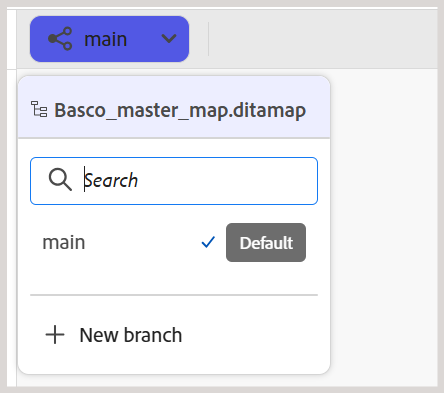
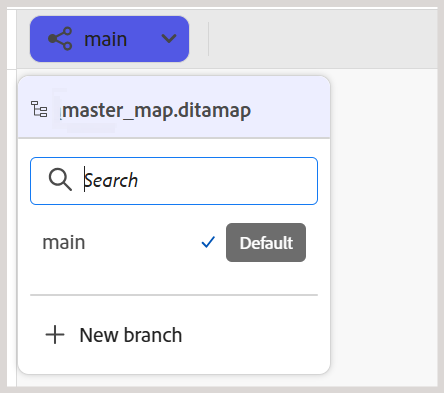
feedback for branching addressed

Changed region(s): [[0.1171, 0.2443, 0.7027, 0.3053]]

diff --git a/help/product-guide/user-guide/branching-overview.md b/help/product-guide/user-guide/branching-overview.md
@@ -49,7 +49,7 @@ Both teams can work independently on their respective map branches without affec
 >
 >A branch is created based on a DITA map. You can also add and edit topics that are not referenced by the map within the selected branch. For more information, view [Open or edit topics outside the current map](./create-manage-branch.md#open-or-edit-topics-outside-the-current-map-context).
 
-When you create a branch of a DITA map, Experience Manager Guides does not automatically copy its referenced topics into the new branch. Unchanged topics are read from the default branch (main). A topic is copied into the selected branch only when you modify its content
+When you create a branch of a DITA map, Experience Manager Guides does not automatically copy the map's referenced topics into the new branch. Unchanged topics are read from the source branch or the default branch (main). A topic is copied into the new branch only when you edit and save it in that branch.
 
 For example, A DITA map references 100 topics, and the repository contains 50 additional topics that are not referenced by the map. When you create a new branch (release-1.0), all 100 referenced topics automatically become part of release-1.0, even if none of them are edited. The 50 unreferenced topics do not automatically become part of the new branch. If you edit 10 of them, only those 10 become part of release-1.0. The remaining 40 unchanged topics continue to be used from the default branch (main).
 

diff --git a/help/product-guide/user-guide/create-manage-branch.md b/help/product-guide/user-guide/create-manage-branch.md
@@ -114,7 +114,7 @@ If you try to open a map, topic, or asset that is not part of the current map co
 - **Open in editor:** Opens the content in a new tab without changing the current map context.
 - **Cancel:** Cancels the operation and retains the current map context.
 
-For example, consider that `Basco_master_map.ditamap` is currently selected in the **main** branch.
+For example, consider that `master_map.ditamap` is currently selected in the **main** branch.
 
 ![](./images/map-context-selection.png)
 
